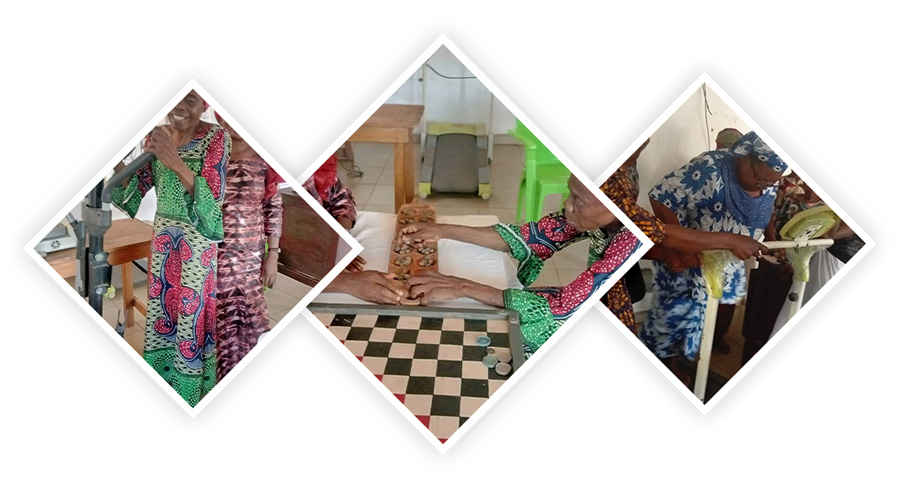
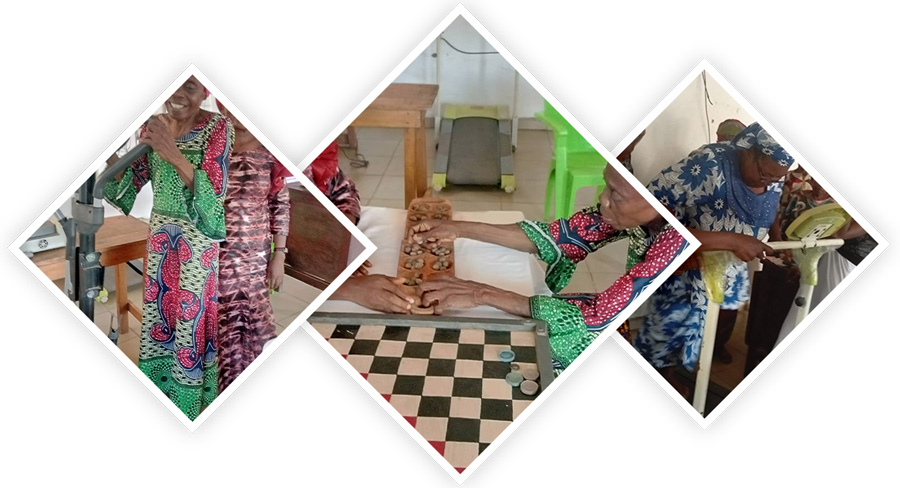
service section

diff --git a/src/components/Home/ServiceSection.jsx b/src/components/Home/ServiceSection.jsx
@@ -1,0 +1,78 @@
+import imageOne from "../../assets/images/img/image1.png";
+import imageTwo from "../../assets/images/img/image2.png";
+import SectionHeader from "../common/SectionHeader";
+const ServiceSection = () => {
+  return (
+    <section id="service__section">
+      <div className="container-sm">
+        <div className="row ">
+          <div data-aos="fade-up" className="col-lg-6 mb-1">
+            <img src={imageOne} alt="service image" className="img-fluid" />
+          </div>
+          <div
+            data-aos="fade-up"
+            data-aos-delay="50"
+            className="col-lg-6 d-flex align-items-center mb-1"
+          >
+            <div>
+              <SectionHeader>
+                <h2 className="text-light my-0 py-0">
+                  Personal <span className="text-warning">Care</span>
+                </h2>
+              </SectionHeader>
+              <p className="mt-2 text-center lead">
+                At Omojolagbe Geriatrics Care Foundation, we understand the
+                unique needs and challenges that come with aging. Our mission is
+                to provide compassionate and reliable personal care services
+                tailored specifically for seniors, ensuring a life of dignity,
+                comfort, and independence.
+              </p>
+              <p className="text-center lead">
+                We provide a Comprehensive Personal Assistance: From bathing,
+                grooming, and dressing to medication reminders and mobility
+                assistance, our caregivers are trained to offer support with the
+                utmost respect and empathy.
+              </p>
+            </div>
+          </div>
+
+          <div
+            data-aos="fade-up"
+            data-aos-delay="100"
+            className="col-lg-6 d-flex align-items-center mb-1"
+          >
+            <div>
+              <SectionHeader>
+                <h2 className="text-light my-0 py-0">
+                  Quality Of <span className="text-warning">Life</span>
+                </h2>
+              </SectionHeader>
+              <p className="mt-2 text-center lead">
+                At Omojolagbe Geriatrics Care Foundation, we`re dedicated to
+                providing more than just care; were committed to enhancing
+                qualify of lives. Our trained caregivers engage seniors in
+                meaningful activities, conversations, and outings to foster
+                emotional well-being and social interactions.
+              </p>
+              <p className="mt-2 text-center lead">
+                Life is meant to be lived fully at every age. Our center is a
+                vibrant hub of activities like arts, crafts and games. There`s
+                always something enriching happening here.
+              </p>
+            </div>
+          </div>
+
+          <div
+            data-aos="fade-up"
+            data-aos-delay="150"
+            className="col-lg-6 mb-1 text-center "
+          >
+            <img src={imageTwo} alt="service image" className="img-fluid" />
+          </div>
+        </div>
+      </div>
+    </section>
+  );
+};
+
+export default ServiceSection;

diff --git a/src/components/Home/GallerySection.jsx b/src/components/Home/GallerySection.jsx
@@ -28,7 +28,7 @@ const GallerySection = () => {
                     <FaPodcast />
                   </p>
                 </div>
-                <p>
+                <p className="lead">
                   Dive into our captivating collection of images and videos that
                   encapsulate moments, stories, and the essence of our journey.
                 </p>
@@ -43,7 +43,7 @@ const GallerySection = () => {
                     <FaPodcast />
                   </p>
                 </div>
-                <p>
+                <p className="lead">
                   Each image and video captures the unique beauty of aging — a
                   mosaic of experiences, laughter, resilience, and cherished
                   memories.
@@ -61,7 +61,7 @@ const GallerySection = () => {
           <div
             data-aos="fade-up"
             data-aos-delay="100"
-            className="col-lg-6 mb-1 d-flex align-items-end"
+            className="col-lg-6 mb-1"
           >
             <div className="gallery__section">
               <img src={gallery} alt="gallery" className="img-fluid" />

diff --git a/src/components/Home/AboutSection.jsx b/src/components/Home/AboutSection.jsx
@@ -17,10 +17,10 @@ const AboutComponent = () => {
         </SectionHeader>
         <div
           data-aos="fade-up"
-          className="row d-flex justify-content-center my-3"
+          className="row d-flex justify-content-center mt-2"
         >
           <div className="col-lg-8 text-center">
-            <p className="text-dark">
+            <p className="text-dark lead">
               Omojolagbe Geriatrics Care Foundation was established in 2018 in
               Ibadan, Oyo State Nigeria and fully registered by The Corporate
               Affairs Commission. It is a reputable organization working in the
@@ -39,7 +39,7 @@ const AboutComponent = () => {
 
         <div
           data-aos="fade-up"
-          className="row d-flex justify-content-center my-3"
+          className="row d-flex justify-content-center my-4"
         >
           <div className="col-lg-6">
             <div className="about__image">

diff --git a/src/pages/Home.jsx b/src/pages/Home.jsx
@@ -1,6 +1,7 @@
 import AboutSection from "../components/Home/AboutSection";
 import GallerySection from "../components/Home/GallerySection";
 import HeroSection from "../components/Home/HeroSection";
+import ServiceSection from "../components/Home/ServiceSection";
 import PageLayout from "../components/common/PageLayout";
 
 const HomePage = () => {
@@ -10,6 +11,7 @@ const HomePage = () => {
         <main>
           <HeroSection />
           <AboutSection />
+          <ServiceSection />
           <GallerySection />
         </main>
       </PageLayout>

diff --git a/src/index.css b/src/index.css
@@ -32,6 +32,7 @@
 }
 /* section header  */
 section#about__section,
+section#gallery__section,
 section#contact__section {
   padding: 5rem 0;
 }
